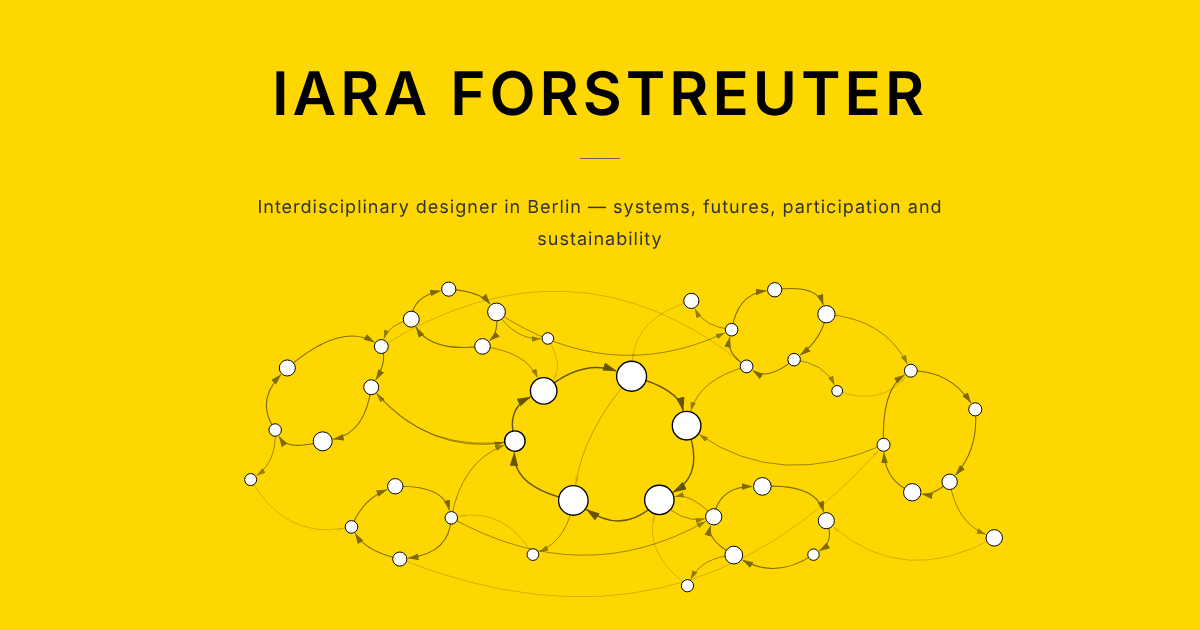
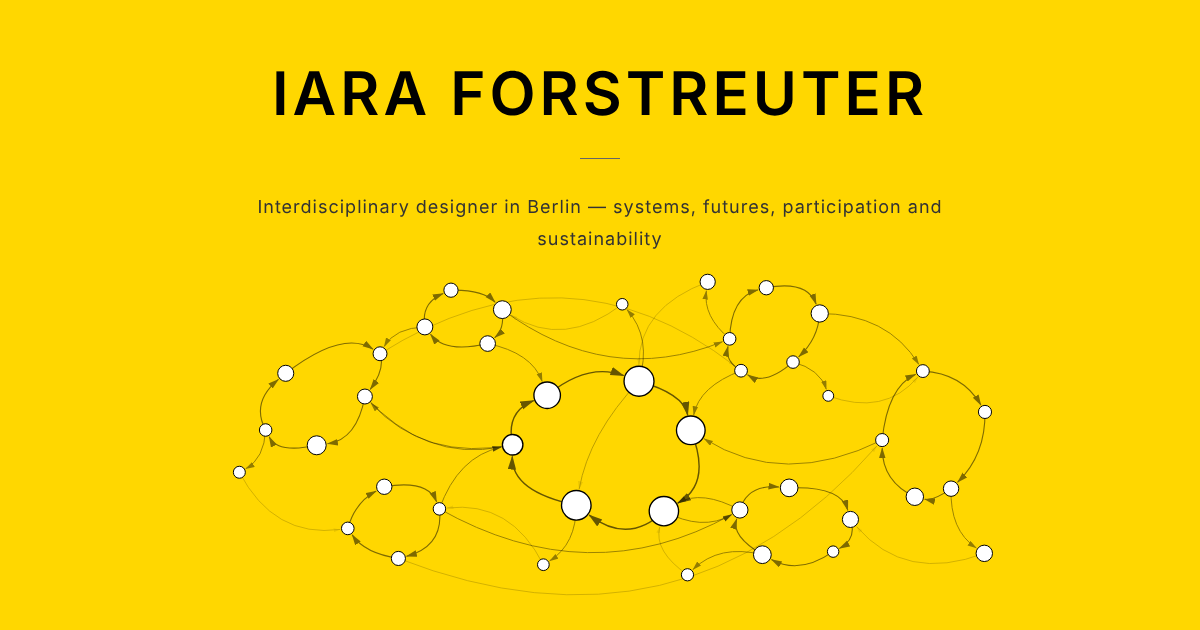
Hero: livelier motion for the loop map
Roughly double the breathing, sway, drift and wobble, slightly faster.
Loop positions adjusted so no elements collide over a full motion cycle.

Claude-Session: https://claude.ai/code/session_01NJV6eDzNDMhU5kPEKNMVLp

diff --git a/index.html b/index.html
@@ -1357,12 +1357,12 @@ const allColors = ['#FF4444', '#FF6666', '#0056B3', '#87CEEB', '#FFD700', '#FF8C
 // Nodes sit on rings and are linked around each ring by arcs that follow
 // the circle; long sweeping curves connect the outer loops to the core.
 const LOOPS = [
-  { name: 'core',           cx: 700,  cy: 295, R: 118, n: 6, r: 21, start: -80, core: true, sx: 1.12, sy: 0.92, tilt: 12 },
-  { name: 'systems',        cx: 250,  cy: 225, R: 82,  n: 5, r: 13, start: -40, sx: 1.25, sy: 0.8,  tilt: -25 },
-  { name: 'futures',        cx: 470,  cy: 100, R: 62,  n: 4, r: 12, start: -20, sx: 1.3,  sy: 0.75, tilt: 15 },
+  { name: 'core',           cx: 702,  cy: 302, R: 118, n: 6, r: 21, start: -80, core: true, sx: 1.12, sy: 0.92, tilt: 12 },
+  { name: 'systems',        cx: 235,  cy: 240, R: 82,  n: 5, r: 13, start: -40, sx: 1.25, sy: 0.8,  tilt: -25 },
+  { name: 'futures',        cx: 488,  cy: 108, R: 62,  n: 4, r: 12, start: -20, sx: 1.3,  sy: 0.75, tilt: 15 },
   { name: 'sustainability', cx: 985,  cy: 120, R: 70,  n: 5, r: 12, start: 0,   sx: 1.2,  sy: 0.85, tilt: -10 },
   { name: 'design',         cx: 1230, cy: 285, R: 86,  n: 5, r: 13, start: 25,  sx: 0.85, sy: 1.2,  tilt: 20 },
-  { name: 'participation',  cx: 990,  cy: 450, R: 78,  n: 5, r: 12, start: 50,  sx: 1.3,  sy: 0.8,  tilt: 8 },
+  { name: 'participation',  cx: 1025, cy: 455, R: 78,  n: 5, r: 12, start: 50,  sx: 1.3,  sy: 0.8,  tilt: 8 },
   { name: 'learning',       cx: 380,  cy: 435, R: 74,  n: 4, r: 12, start: 5,   sx: 1.2,  sy: 0.85, tilt: -18 },
 ];
 // seeded random: the map looks hand-placed but is the same on every visit
@@ -1384,7 +1384,7 @@ LOOPS.forEach((L, li) => {
 });
 // loose single elements scattered between the loops
 const LOOSE = { name: 'loose', loose: true, members: [], n: 0, phase: 0.4, cx: 0, cy: 0 };
-[[585, 470], [835, 545], [1100, 215], [600, 125], [140, 375], [1345, 445], [835, 75]].forEach(([x, y]) => {
+[[585, 470], [835, 545], [1100, 215], [700, 70], [140, 375], [1320, 450], [850, 55]].forEach(([x, y]) => {
   LOOSE.members.push(nodes.length);
   nodes.push({ x, y, r: 8 + rand() * 5, loop: LOOPS.length, loose: true });
 });
@@ -1392,9 +1392,9 @@ LOOSE.n = LOOSE.members.length;
 LOOPS.push(LOOSE);
 nodes.forEach((node, i) => {
   node.color = allColors[i % allColors.length];
-  node.wobbleAmp = 3 + (i % 3);                        // tiny, in place
+  node.wobbleAmp = 6 + (i % 4) * 1.5;                  // small, in place
   node.wobblePhase = (i * 2.399) % (Math.PI * 2);
-  node.wobbleSpeed = 0.15 + (i % 5) * 0.03;
+  node.wobbleSpeed = 0.3 + (i % 5) * 0.06;
 });
 // current (animated) positions, used by nodes, edges and hover
 const cur = nodes.map(n => ({ x: n.x, y: n.y }));
@@ -1499,14 +1499,14 @@ function animateDrift() {
   // each loop breathes (scales), sways (small rotation) and drifts a little
   LOOSE.members.forEach(i => {
     const n = nodes[i], w = t * n.wobbleSpeed + n.wobblePhase;
-    cur[i].x = n.x + Math.sin(t * 0.13 + n.wobblePhase) * 12 + Math.sin(w) * n.wobbleAmp;
-    cur[i].y = n.y + Math.cos(t * 0.11 + n.wobblePhase) * 10 + Math.cos(w * 0.8) * n.wobbleAmp;
+    cur[i].x = n.x + Math.sin(t * 0.2 + n.wobblePhase) * 30 + Math.sin(w) * n.wobbleAmp;
+    cur[i].y = n.y + Math.cos(t * 0.17 + n.wobblePhase) * 22 + Math.cos(w * 0.8) * n.wobbleAmp;
   });
   LOOPS.forEach((L, li) => {
     if (L.loose) return;
-    const s = 1 + (L.core ? 0.035 : 0.06) * Math.sin(t * 0.3 + L.phase);          // ~20 s per breath
-    const rot = (L.core ? 0.02 : 0.05) * Math.sin(t * 0.11 + L.phase);            // gentle sway
-    const ox = 6 * Math.sin(t * 0.07 + L.phase), oy = 5 * Math.cos(t * 0.09 + L.phase);
+    const s = 1 + (L.core ? 0.07 : 0.12) * Math.sin(t * 0.42 + L.phase);          // ~20 s per breath
+    const rot = (L.core ? 0.06 : 0.14) * Math.sin(t * 0.17 + L.phase);            // gentle sway
+    const ox = (L.core ? 10 : 16) * Math.sin(t * 0.12 + L.phase), oy = (L.core ? 8 : 12) * Math.cos(t * 0.15 + L.phase);
     const cr = Math.cos(rot), sr = Math.sin(rot);
     L.members.forEach(i => {
       const n = nodes[i], dx = (n.x - L.cx) * s, dy = (n.y - L.cy) * s;
